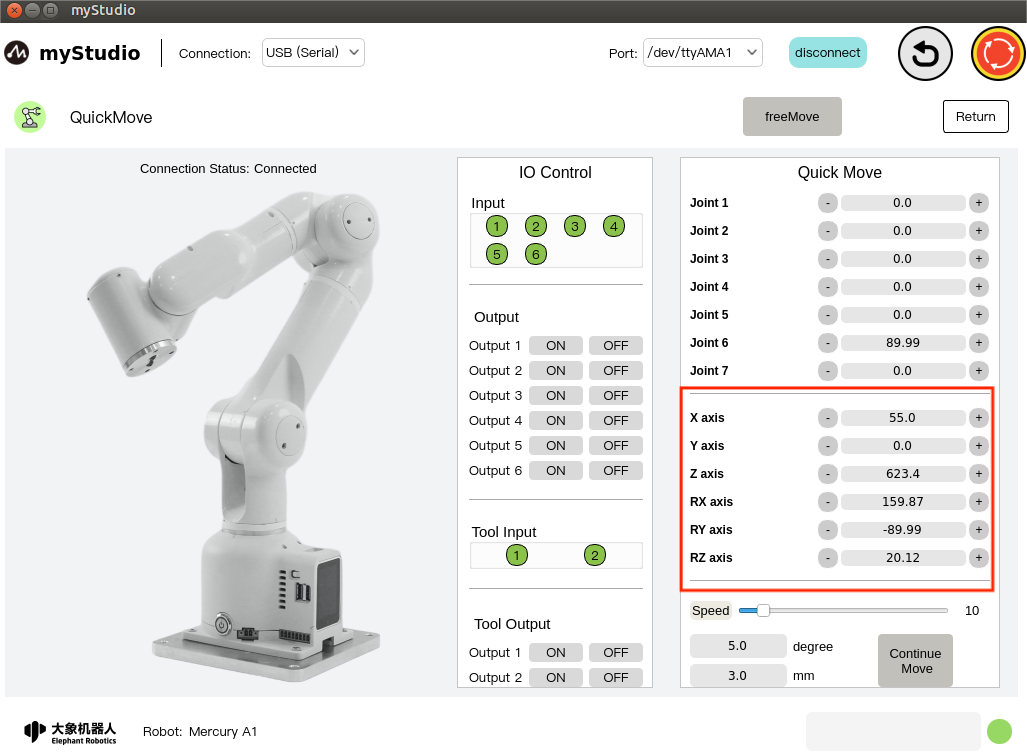
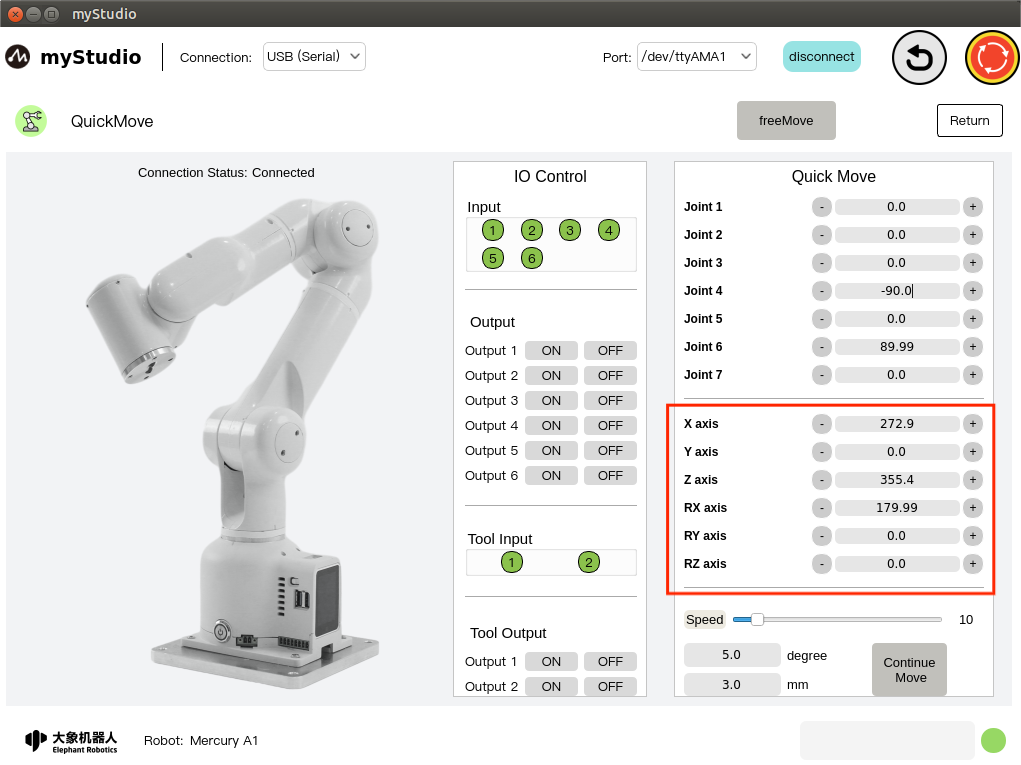
修改快速移动

diff --git a/2-quickmove/2.1-quickmovefirstuse.md b/2-quickmove/2.1-quickmovefirstuse.md
@@ -1,4 +1,12 @@
-# First Use
+# Quick Move
+
+*before the start*
+
+> *1. Make sure the machine is powered on*
+>
+> *2. Make sure the machine connection and communication are normal*
+>
+> *3. Make sure the machine is in zero position*
 
 ## 1 Interface introduction
 
@@ -32,6 +40,11 @@ In the angle control area, click the `+` `-` button to control the joint angle o
 width ="800"  align = "center">
 
 ## 3 Coordinate control
+
+Before using coordinate control, you need to move `Joint 4` to an angle position of about `-90`.
+
+<img src =../resources/2-quickmove/2-3-0.png
+width ="800"  align = "center">
 
 In the coordinate control area, click the `+` `-` button to control the coordinates of the robotic arm. The value represents the coordinate attitude information of the current robotic arm. You can also modify the value directly for coordinate control.
 
